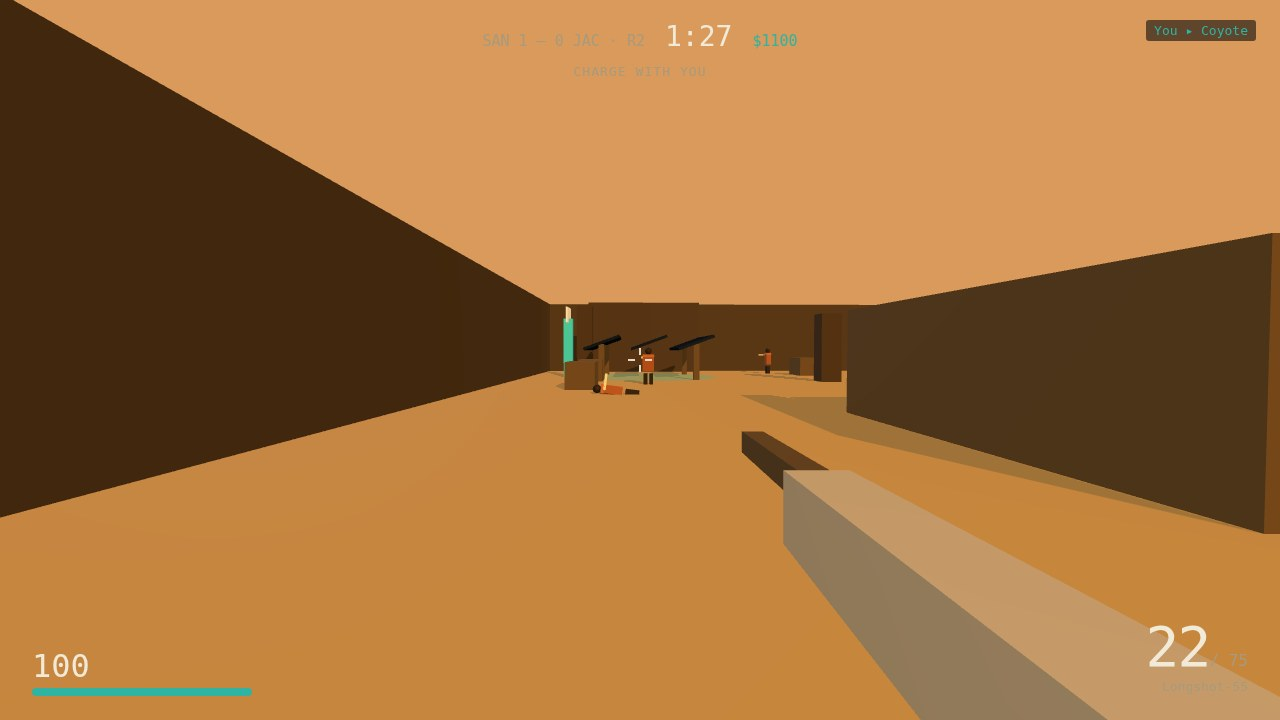
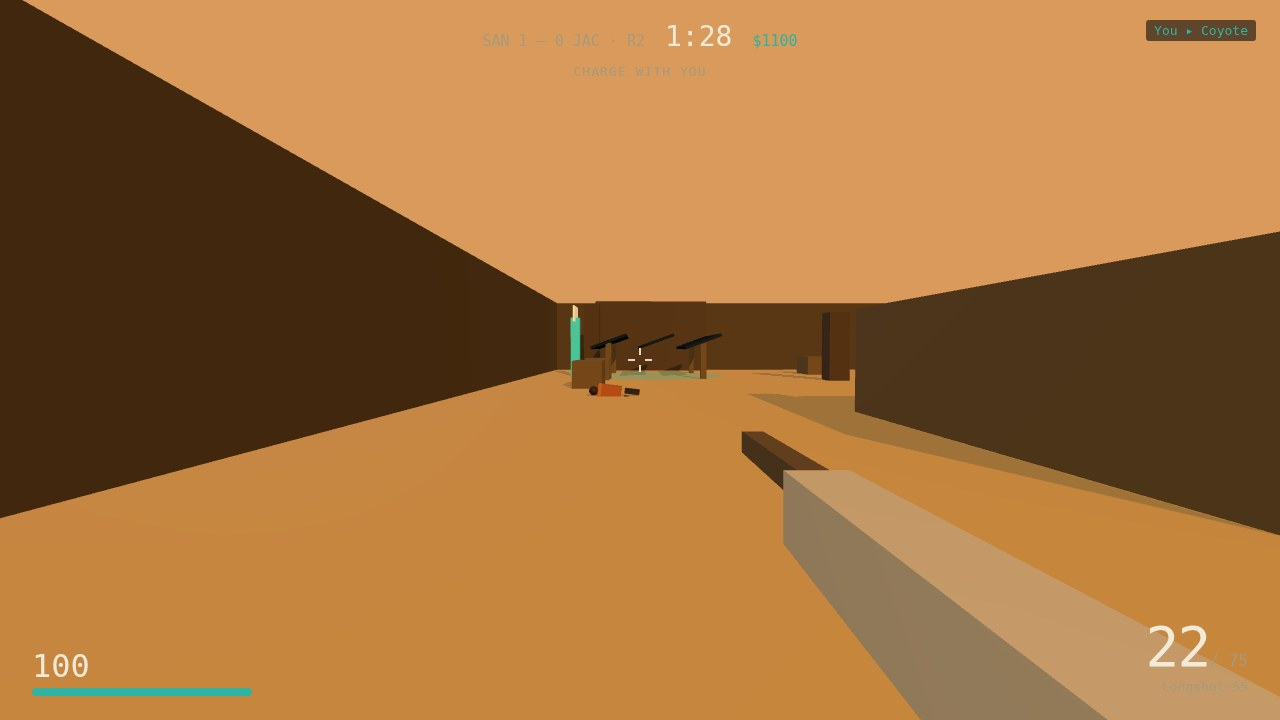
Fix bot targeting: stable player ref, combat only in round phase; stage play shot

diff --git a/game/src/bots.js b/game/src/bots.js
@@ -241,8 +241,13 @@ export function createBots(scene, world) {
   }
 
   function step(dt, time, ctx) {
+    // Combat only happens in the round: the buy phase is for positioning,
+    // not for dying — without this gate, bots gun each other down before the
+    // round clock even starts and a defender pulled west by buy-phase noise
+    // can be waiting on the attacker's spawn when the round opens.
+    const canFight = ctx.phase === 'round';
     // Hearing: gunshots heard this step pull bots within HEAR_DIST toward the noise.
-    for (const noise of ctx.noises) {
+    for (const noise of canFight ? ctx.noises : []) {
       for (const bot of bots) {
         if (!bot.alive || bot.target) continue;
         const d = Math.hypot(bot.pos.x - noise.x, bot.pos.z - noise.z);
@@ -262,7 +267,7 @@ export function createBots(scene, world) {
       // Perception, staggered. Compare the underlying entity (ref), not the
       // fresh wrapper visibleEnemy builds per scan: otherwise the reaction
       // timer resets on every scan and the bot never fires.
-      if (time >= bot.scanAt && !blinded) {
+      if (canFight && time >= bot.scanAt && !blinded) {
         bot.scanAt = time + 0.12 + Math.random() * 0.05;
         const seen = visibleEnemy(bot, ctx);
         if (seen && (!bot.target || bot.target.ref !== seen.ref)) {
@@ -282,12 +287,12 @@ export function createBots(scene, world) {
         && Math.hypot(bot.pos.x - ctx.bomb.pos.x, bot.pos.z - ctx.bomb.pos.z) < 2.5;
 
       // Channels: planting (carrier in site) and defusing (defender at planted charge).
-      if (inSite && bot.team === 'sandline' && !blinded) {
+      if (canFight && inSite && bot.team === 'sandline' && !blinded) {
         bot.channel = 'plant';
         bot.plantProgress += dt / 3;
         bot.vel.set(0, 0, 0);
         if (bot.plantProgress >= 1) ctx.onPlantDone(bot);
-      } else if (atPlanted && !blinded) {
+      } else if (canFight && atPlanted && !blinded) {
         bot.channel = 'defuse';
         bot.defuseProgress += dt / 5;
         bot.vel.set(0, 0, 0);
@@ -299,7 +304,7 @@ export function createBots(scene, world) {
       }
 
       // Combat: face and fire at a visible target.
-      if (target && time >= bot.reactAt && !bot.channel) {
+      if (canFight && target && time >= bot.reactAt && !bot.channel) {
         const tx = target.pos.x;
         const tz = target.pos.z;
         const dx = tx - bot.pos.x;

diff --git a/game/src/main.js b/game/src/main.js
@@ -60,6 +60,11 @@ const raycaster = new THREE.Raycaster();
 raycaster.far = 90;
 
 const body = player.state;
+// Stable identity for the bot perception code: bots compare a seen target's
+// ref with the one they already track, so the player object must be the SAME
+// object every step — a fresh literal per step would reset every bot's
+// reaction timer and no bot would ever fire at the player.
+const playerTarget = { alive: true, pos: body.position, speed: 0 };
 const ALLY_NAMES = ['Rook', 'Sable', 'Wren'];
 const ENEMY_NAMES = ['Coyote', 'Dingo', 'Fennec', 'Gila', 'Sidewinder'];
 let hp = 100;
@@ -568,8 +573,10 @@ function step(dt) {
 
     // Bots.
     const site = siteById(m.targetSite);
+    playerTarget.alive = playerAlive;
+    playerTarget.speed = player.groundSpeed();
     bots.step(dt, elapsed, {
-      player: { alive: playerAlive, pos: body.position, speed: player.groundSpeed() },
+      player: playerTarget,
       bomb: {
         state: bomb.state.mode,
         site: bomb.state.site,
@@ -579,6 +586,7 @@ function step(dt) {
       targetSite: m.targetSite,
       sitePos: site,
       noises,
+      phase: m.phase,
       shoot: (bot, target, dist, moving) => botShoot(bot, target, dist, moving),
       onPlantDone: (bot) => {
         bomb.plant(m.targetSite, bot.pos);
@@ -746,15 +754,25 @@ function runShot(name) {
         enemy.parts.group.position.copy(enemy.pos);
         enemy.parts.group.rotation.y = enemy.yaw;
       }
-      settle(30);
+      // Park the other Jackals at site B for the frame, so none of them can
+      // shoot the player down the lane while the kill is staged.
+      for (const other of bots.bots) {
+        if (other.team === 'jackals' && other !== enemy) {
+          other.pos.set(18, 0, 13);
+          other.yaw = -Math.PI / 2;
+          other.parts.group.position.copy(other.pos);
+          other.parts.group.rotation.y = other.yaw;
+        }
+      }
+      settle(6);
       if (enemy) {
         // Three rifle hits (36 each) drop the bot; the killfeed shows the kill.
         aimAt(botAimPoint(enemy));
         shoot(0);
-        settle(6);
+        settle(3);
         aimAt(botAimPoint(enemy));
         shoot(0);
-        settle(6);
+        settle(3);
         aimAt(botAimPoint(enemy));
         shoot(0);
         // Let the kill land: the bot falls flat (0.4s) and the muzzle flash fades.
